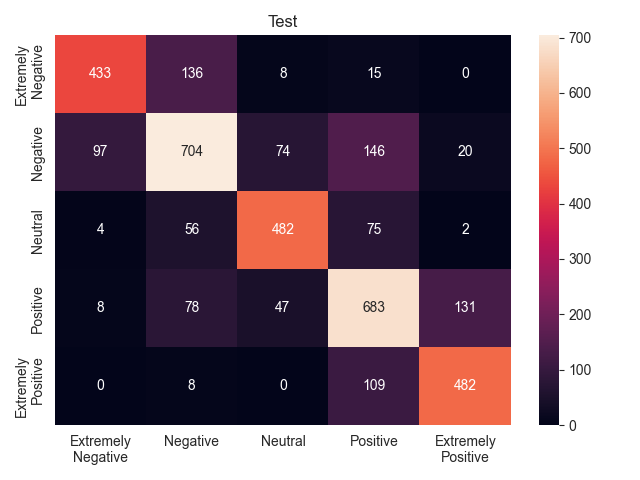
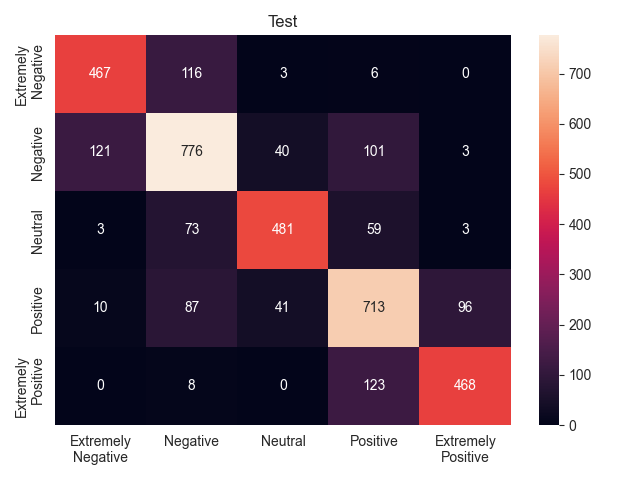
Changed the dropout of the LSTM to improve dropout

diff --git a/src/util/loading.py b/src/util/loading.py
@@ -12,6 +12,7 @@ from src.util import string_label_to_list_label, listemize_input, timeit
 from src.util.constants import *
 from src.util.tokenizers import *
 
+
 def load_raw_training_data():
     raw_data = []
     with open(PATH_TO_RAW_TRAIN_DATA, encoding='latin-1') as csv_file:
@@ -20,6 +21,7 @@ def load_raw_training_data():
         for row in reader:
             raw_data.append(row)
     return raw_data
+
 
 def load_raw_testing_data():
     raw_data = []
@@ -52,6 +54,7 @@ def load_simple_sentence_dataset():
     test_y = np.array([y for (x, y) in dataset["test"]]).astype(np.int)
 
     return train_x, train_y, test_x, test_y
+
 
 def load_simple_word_dataset():
     training_data = load_raw_training_data()
@@ -96,7 +99,7 @@ class CSVTweetReader(object):
             for dirpath, dirnames, filenames in os.walk(self.root)
             for filename in filenames if os.path.splitext(filename)[1] == '.csv'
         ] if os.path.isdir(input_path) else [input_path]
-        
+
         self.csv_files = list(map(os.path.basename, self.paths))
         self._unique_labels = None
 
@@ -108,7 +111,7 @@ class CSVTweetReader(object):
         assert len(self.paths) > 0, \
             "The provided directory/file contained no csv files"
 
-    def read(self, reader=csv.DictReader, cleaner=lambda r: r, dir_or_filename= None):
+    def read(self, reader=csv.DictReader, cleaner=lambda r: r, dir_or_filename=None):
         """
         Yields processed/cleaned datapoints from the csv files under
         dir_or_filenmae.
@@ -122,10 +125,10 @@ class CSVTweetReader(object):
         """
         if dir_or_filename is None:
             dir_or_filename = os.path.dirname(self.root)
-        
+
         for path in self.paths:
             if dir_or_filename in path:  # Only return contents of relevant files
-                with open(path, encoding= "ISO-8859-1") as csvfile:
+                with open(path, encoding="ISO-8859-1") as csvfile:
                     for i, row in enumerate(reader(csvfile)):
                         try:
                             row['id'] = i
@@ -146,20 +149,20 @@ class CSVTweetReader(object):
                 return data
         return cleaner
 
-    def texts(self, fileids= None):
+    def texts(self, fileids=None):
         """
         Returns the unprocessed tweet texts
         """
         cleaner = self.prepare(fileids, 'id')
-        for data in self.read(cleaner= cleaner):
+        for data in self.read(cleaner=cleaner):
             yield data['OriginalTweet']
 
-    def fileids(self, categories= None):
+    def fileids(self, categories=None):
         """Returns the tweet ids"""
         cleaner = self.prepare(categories, "Sentiment")
-        for data in self.read(cleaner= cleaner):
+        for data in self.read(cleaner=cleaner):
             yield data['id']
-            
+
     @property
     def unique_labels(self):
         """Return the unique labels from the initialized dataset"""
@@ -168,22 +171,22 @@ class CSVTweetReader(object):
                 (x, i + 1) for i, x in enumerate(sorted(set(self.labels())))
             )
         return self._unique_labels
-    
-    def labels(self, fileids= None, digitized= False):
+
+    def labels(self, fileids=None, digitized=False):
         """Return the labels for the fileids"""
         cleaner = self.prepare(fileids, 'id')
         apply = (lambda sent: self.unique_labels[sent]) if digitized else (lambda x: x)
-        
+
         for data in self.read(cleaner=cleaner):
             yield apply(data['Sentiment'])
-    
+
     def tokenize(self, fileids, tokenizer):
         """Performs the tokenization according to tokenizer"""
         return [
             tokenizer(text)
             for text in self.texts(fileids=fileids)
         ]
-        
+
     def load(self, path):
         """
         Returns dict under filename if exists.
@@ -195,20 +198,20 @@ class CSVTweetReader(object):
                 return pickle.load(f)
         except Exception as e:
             return {}
-        
+
     def save(self, path, tknzd):
         """Save and overwrite contents of filename"""
-        os.makedirs(os.path.dirname(path), exist_ok= True)
+        os.makedirs(os.path.dirname(path), exist_ok=True)
         with open(path, 'wb+') as f:  # wb+ overwrites
             pickle.dump(tknzd, f)
-    
+
     @listemize_input
     def get_id(self, csvs, fileids):
         # Sort and stringify to create reproduceable key
         return str(sorted(csvs)) + str(sorted(fileids))
-    
+
     @timeit
-    def tokenized(self, fileids= None, tknzr= nltk_tweet_tokenizer):
+    def tokenized(self, fileids=None, tknzr=nltk_tweet_tokenizer):
         """
         Retrieves the tokenized dataset from a pickled file if exists.
         If not, tokenizes, saves, and finally returns it.
@@ -217,11 +220,11 @@ class CSVTweetReader(object):
                                  f'{tknzr.__name__[:-10]}.pickle')
         file_contents = self.load(file_path)
         idx = self.get_id(self.csv_files, fileids)
-        
+
         try:
             tknzd = file_contents[idx]
             print(f'Retrieved existing tokenised dataset from \n {file_path}')
-            
+
         except Exception as e:
             print(f'Tokenizing {self.csv_files} with {tknzr.__name__} for the first time.')
             print('This might take some time...')
@@ -229,33 +232,34 @@ class CSVTweetReader(object):
             file_contents[idx] = tknzd  # Update
             self.save(file_path, file_contents)
             print(f'Result saved to {file_path} under key: {idx}')
-        
+
         return tknzd
-    
+
     _EXCLUDE = {
-        'get_id', 'save', 'load', 
+        'get_id', 'save', 'load',
         'tokenize', 'get_str_from_tknzr',
         'prepare'
     }
-    
-    #__all__ = [k for k in globals() if k not in _EXCLUDE and not k.startswith('_')]
-    
+
+    # __all__ = [k for k in globals() if k not in _EXCLUDE and not k.startswith('_')]
+
+
 if __name__ == "__main__":
     import pandas as pd
-    
+
     reader = CSVTweetReader(input_path=PATH_TO_RAW_TRAIN_DATA,
                             output_path=CLEAN_DATA_PATH)
-    
+
     # Verify data reader function
-    df = pd.DataFrame(data= reader.read())
+    df = pd.DataFrame(data=reader.read())
     print(df)
     print()
     print(df.info())
-    
+
     # Check results from tokenisation by inspection
     for i, data in enumerate(reader.texts()):
         if i >= 10: break
-        print(i,': ')
+        print(i, ': ')
         print('Raw:')
         print(data)
         print()

diff --git a/src/util/generation.py b/src/util/generation.py
@@ -28,12 +28,10 @@ class Generator:
                            hp.Int('embedding_output_dim', min_value=8, max_value=32, step=8),
                            input_length=MAXIMUM_SENTENCE_LENGTH))
 
-        lstm.add(Dropout(hp.Float('first_dropout_rate', min_value=0, max_value=0.5, step=0.1)))
-
-        lstm.add(LSTM(units=hp.Int('lstm_hidden_units', min_value=8, max_value=64, step=8),
-                      activation='sigmoid'))
-
-        lstm.add(Dropout(hp.Float('second_dropout_rate', min_value=0, max_value=0.5, step=0.1)))
+        lstm.add(LSTM(
+            units=hp.Int('lstm_hidden_units', min_value=8, max_value=128, step=8),
+            dropout=hp.Float('lstm_dropout', min_value=0, max_value=0.5, step=0.1)
+        ))
 
         lstm.add(Dense(NUM_CLASSES))
 

diff --git a/src/scripts/lstm_hypersearch.py b/src/scripts/lstm_hypersearch.py
@@ -60,7 +60,5 @@ results.save_macro_averaged_metrics(CONST.LSTM_RESULTS_PATH)
 # Save the best hyperparameterss
 best_param_path = os.path.join(CONST.LSTM_RESULTS_PATH, 'best_hyperparameters.txt')
 with open(best_param_path, 'w') as f:
-    for param in ['embedding_output_dim', 'lstm_hidden_units',
-                  'first_dropout_rate', 'second_dropout_rate',
-                  'learning_rate']:
+    for param in ['embedding_output_dim', 'lstm_hidden_units', 'lstm_dropout', 'learning_rate']:
         f.write(param + ': {:.5f}\n'.format(best_params.get(param)))
